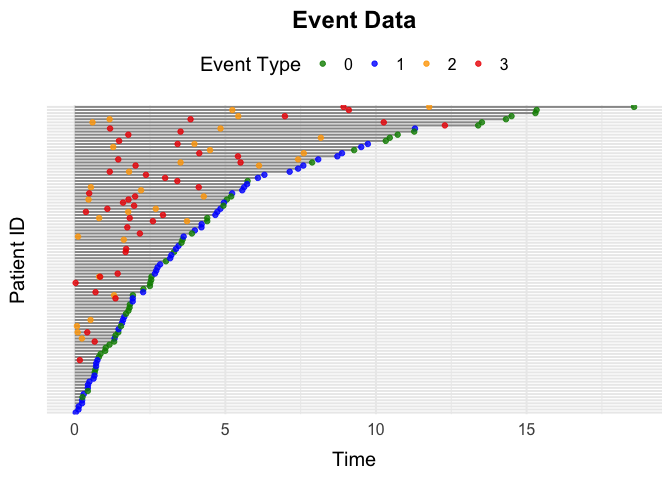
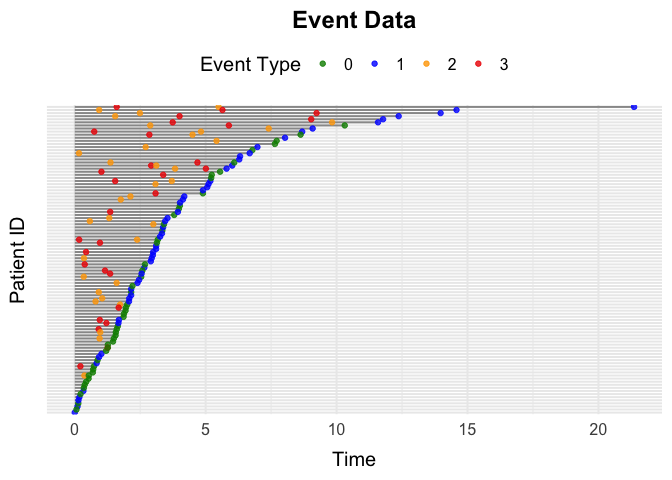
Working on incorporating more events

diff --git a/README.md b/README.md
@@ -27,31 +27,14 @@ We load the package
 library(simevent)
 ```
 
-The underlying function is called `simEventData`. One can specify
-various arguments, as for example the `N` and `beta` argument. The
-`N`argument lets the user specify number of individuals in the
-simulation. The `beta` argument lets the user specify the effects of
-processes and covariates on the intensities of the processes. We define
-the various arguments
+The underlying function is called `simEventData`. The `N` argument lets
+the user specify number of individuals in the simulation. We can
+simulate observational health care data for 100 individuals with the
+function call
 
 ``` r
-# Number of individuals
-N <- 100
-# Effect on event 0 
-beta0 <- c(0, 0, 0, 0)
-# Effect on event 1
-beta1 <- c(1, -1, 1, -1)
-# Effect on event 2 (A)
-beta2 <- c(0, -1, 0, 0.5)
-# Effect on event 3 (L)
-beta3 <- c(0, 0, 1, 0)
-beta <- cbind(beta0, beta1, beta2, beta3)
-```
-
-And then call the function
-
-``` r
-data <- simEventData(N = N, beta = beta)
+set.seed(2112)
+data <- simEventData(N = 100)
 ```
 
 The simulated data looks like
@@ -61,15 +44,18 @@ head(data)
 #> Key: <ID>
 #>       ID      Time Delta       L0     L    A0     A
 #>    <int>     <num> <num>    <num> <num> <int> <num>
-#> 1:     1 1.6487768     2 63.22484     0     1     0
-#> 2:     1 9.2003661     1 63.22484     0     1     1
-#> 3:     2 6.8472139     1 37.46308     0     1     0
-#> 4:     3 0.3997357     1 62.58468     0     0     0
-#> 5:     4 1.1660279     2 47.87919     0     1     0
-#> 6:     4 2.5904808     1 47.87919     0     1     1
+#> 1:     1 2.9037787     1 62.89378     0     0     0
+#> 2:     2 0.7063947     0 49.09138     0     1     0
+#> 3:     3 7.6447085     0 45.16921     0     1     0
+#> 4:     4 2.6600085     1 40.66332     0     1     0
+#> 5:     5 0.9501756     2 40.62088     0     0     0
+#> 6:     5 1.4929627     0 40.62088     0     0     1
 ```
 
-One can visualize the data by
+From data we can for example see that Individual $1$ has a baseline
+covariate $L_0$ of $62.89$, does not get treatment ($A_0 = 0$) and
+experienced the terminal event $1$ at Time $2.9$. One can visualize the
+data with use of the function `plotEventData`
 
 ``` r
 plotEventData(data)
@@ -77,9 +63,91 @@ plotEventData(data)
 
 <img src="man/figures/README-unnamed-chunk-4-1.png" width="100%" />
 
-### Classical Estimation
+The plot shows the event history of the $N = 100$ individuals, the
+different colors of the dots illustrate the different events. The
+$x$-axis is the timeline.
 
-We simulate for $N = 10^4$ individuals. Additional covariates
+### Arguments of simEventData
+
+`simEventData` is quite flexible, and does therefore take many
+arguments. You can read about the different arguments on the help page
+
+``` r
+?simEventData
+```
+
+To include additional baseline covariates, the user can specify random
+generator functions to generate the covariates. We will in the following
+include to additional baseline covariates, one with a bernoulli
+distribution with succes parameter 0.2, and one with a normal
+distribution. The functions should take as input the number of draws to
+make.
+
+``` r
+func1 <- function(N) rbinom(N, 1, 0.2)
+func2 <- function(N) rnorm(N)
+add_cov <- list(func1, func2)
+```
+
+The `beta` argument lets the user specify the effects of processes and
+covariates on the intensities of the processes. We define a new beta
+matrix, it should have dimensions 6x4 since we have two additional
+baseline covariates.
+
+``` r
+# Effect on event 0 
+beta0 <- c(0, 0, 0, 0, 0, 0)
+# Effect on event 1
+beta1 <- c(1, -1, 1, -1, -1, -1)
+# Effect on event 2 (A)
+beta2 <- c(0, -1, 0, 0.5, 0.5, 0)
+# Effect on event 3 (L)
+beta3 <- c(0, 0, 1, 0, 0, 0)
+beta <- cbind(beta0, beta1, beta2, beta3)
+```
+
+We can specify a user defined `at_risk` function by
+
+``` r
+at_risk <- function(i, L, A) {
+  return(c(
+    1,1,                      # You are always at risk for death and censoring
+    as.numeric(A[i] == 0),    # You can experience A once
+    as.numeric(L[i] < 2)))    # You can experience L twice
+  }
+```
+
+This `at_risk` function for example, allows for recurrent events,
+letting the individual experience the $L$ event twice. We simulate data
+from this setting, and use the default values of $\eta$, $\nu$ and have
+no maximal censoring time.
+
+``` r
+data <- simEventData(N = 100, add_cov = add_cov, beta = beta, at_risk = at_risk)
+```
+
+The additional covariates are called $L_1$ and $L_2$, and data now looks
+like
+
+``` r
+head(data)
+#> Key: <ID>
+#>       ID      Time Delta       L0     L    A0     A    L1         L2
+#>    <int>     <num> <num>    <num> <num> <int> <num> <num>      <num>
+#> 1:     1 1.5590413     1 49.79150     0     1     0     0 -0.1052511
+#> 2:     2 3.5675446     1 35.22123     0     1     0     0 -1.2947378
+#> 3:     3 2.0755969     0 61.12498     0     1     0     0  1.3408939
+#> 4:     4 0.4407033     1 54.78982     0     0     0     0 -1.3608400
+#> 5:     5 0.8704168     0 46.70442     0     1     0     1  0.2032149
+#> 6:     6 0.0871322     0 59.68767     0     1     0     1  0.1238069
+```
+
+### Cox Regression
+
+It could be of interest to estimate the effects of covariates on the
+intensities of the different counting processes. A tool for this is the
+Cox proportional hazards model. We start by simulating data for
+$N = 10^4$ individuals.
 
 ``` r
 data <- simEventData(N = 10^4, beta = beta)
@@ -87,15 +155,10 @@ data <- simEventData(N = 10^4, beta = beta)
 
 In order to fit a Cox proportional hazards model with the `survival`
 package, the data needs to be transformed into the so called format,
-this can be done by the function \`IntFormatData.\`\`\` Furthermore two
-at risk indicators need to be created, one that indicates when the
-individual is at risk for event $A$ and one that indicates that the
-individual is at risk for event $L$.
+this can be done by the function `IntFormatData`.
 
 ``` r
 data_int <- IntFormatData(data)
-data_int[, at_risk_2 := as.numeric(A == 0)]
-data_int[, at_risk_3 := as.numeric(L == 0)]
 ```
 
 Data in the format looks like
@@ -105,24 +168,22 @@ head(data_int)
 #> Key: <ID>
 #>       ID      Time Delta       L0     L    A0     A     k   tstart     tstop
 #>    <int>     <num> <num>    <num> <num> <int> <num> <int>    <num>     <num>
-#> 1:     1 2.0373085     3 50.92628     0     0     0     1 0.000000 2.0373085
-#> 2:     1 3.6342119     1 50.92628     1     0     0     2 2.037309 3.6342119
-#> 3:     2 1.6753524     0 42.96036     0     1     0     1 0.000000 1.6753524
-#> 4:     3 1.1853940     1 30.72762     0     1     0     1 0.000000 1.1853940
-#> 5:     4 3.1342088     0 57.44008     0     1     0     1 0.000000 3.1342088
-#> 6:     5 0.7731562     1 46.84456     0     1     0     1 0.000000 0.7731562
-#>    at_risk_2 at_risk_3
-#>        <num>     <num>
-#> 1:         1         1
-#> 2:         1         0
-#> 3:         1         1
-#> 4:         1         1
-#> 5:         1         1
-#> 6:         1         1
+#> 1:     1 0.2803617     1 56.28101     0     0     0     1 0.000000 0.2803617
+#> 2:     2 2.1744307     0 42.91979     0     1     0     1 0.000000 2.1744307
+#> 3:     3 1.5787315     3 65.45872     0     0     0     1 0.000000 1.5787315
+#> 4:     3 1.8758636     1 65.45872     1     0     0     2 1.578732 1.8758636
+#> 5:     4 1.0141196     1 32.28017     0     1     0     1 0.000000 1.0141196
+#> 6:     5 2.5035652     1 54.97065     0     1     0     1 0.000000 2.5035652
 ```
 
-Cox proportional hazards models for the death process and operation
-process can be fitted by the following code
+The data contains the same information as the original data, only now
+three additional columns have been added. The column *k*, indicates the
+number of the event, the column *tstart* indicates the start of a time
+interval, and the column *tstop* indicates the end of a time interval.
+In each time interval the covariates (and processes) influencing the
+intensities of the processes remain constant. Cox proportional hazards
+models for the death process and operation process can be fitted by the
+following code
 
 ``` r
 library(survival)
@@ -131,10 +192,12 @@ survfit_death <- coxph(Surv(tstart, tstop, Delta == 1) ~ I(L0/50) + A0 + L + A,
                        data = data_int)
 # Operation process
 survfit_oper <- coxph(Surv(tstart, tstop, Delta == 2) ~ I(L0/50) + A0 + L, 
-                      data = data_int[at_risk_2 == 1])
+                      data = data_int[A == 0])
 ```
 
-The regression results can be seen by the summary call
+In order to conduct correct inference, only data where the individual is
+at risk for the event in question is included in the regression. The
+regression results can be seen by the summary call
 
 ``` r
 survfit_death |> summary()
@@ -142,39 +205,39 @@ survfit_death |> summary()
 #> coxph(formula = Surv(tstart, tstop, Delta == 1) ~ I(L0/50) + 
 #>     A0 + L + A, data = data_int)
 #> 
-#>   n= 14461, number of events= 6352 
+#>   n= 14481, number of events= 6367 
 #> 
 #>              coef exp(coef) se(coef)      z Pr(>|z|)    
-#> I(L0/50)  0.98586   2.68011  0.05546  17.78   <2e-16 ***
-#> A0       -1.00430   0.36630  0.02715 -36.99   <2e-16 ***
-#> L         0.97273   2.64517  0.02946  33.02   <2e-16 ***
-#> A        -1.02780   0.35779  0.04316 -23.81   <2e-16 ***
+#> I(L0/50)  0.90118   2.46250  0.05499  16.39   <2e-16 ***
+#> A0       -0.97200   0.37832  0.02708 -35.89   <2e-16 ***
+#> L         0.96847   2.63392  0.02921  33.16   <2e-16 ***
+#> A        -0.96298   0.38175  0.04133 -23.30   <2e-16 ***
 #> ---
 #> Signif. codes:  0 '***' 0.001 '**' 0.01 '*' 0.05 '.' 0.1 ' ' 1
 #> 
 #>          exp(coef) exp(-coef) lower .95 upper .95
-#> I(L0/50)    2.6801     0.3731    2.4041    2.9878
-#> A0          0.3663     2.7300    0.3473    0.3863
-#> L           2.6452     0.3780    2.4968    2.8024
-#> A           0.3578     2.7949    0.3288    0.3894
+#> I(L0/50)    2.4625     0.4061    2.2109    2.7428
+#> A0          0.3783     2.6432    0.3588    0.3989
+#> L           2.6339     0.3797    2.4874    2.7891
+#> A           0.3818     2.6195    0.3521    0.4140
 #> 
-#> Concordance= 0.676  (se = 0.004 )
-#> Likelihood ratio test= 2719  on 4 df,   p=<2e-16
-#> Wald test            = 2698  on 4 df,   p=<2e-16
-#> Score (logrank) test = 2799  on 4 df,   p=<2e-16
+#> Concordance= 0.669  (se = 0.004 )
+#> Likelihood ratio test= 2593  on 4 df,   p=<2e-16
+#> Wald test            = 2589  on 4 df,   p=<2e-16
+#> Score (logrank) test = 2680  on 4 df,   p=<2e-16
 ```
 
 ## Example 2: Survival Data
 
-You can simulate data from a survival setting with the function
-`simSurvData`.
+A special case of the general setting is the survival setting, one can
+simulate data from a survival setting with the function `simSurvData`.
 
 ``` r
 data <- simSurvData(100)
 plotEventData(data, title = "Survival Data")
 ```
 
-<img src="man/figures/README-unnamed-chunk-10-1.png" width="100%" />
+<img src="man/figures/README-unnamed-chunk-15-1.png" width="100%" />
 
 One can again specify the effects of $A_0$ and $L_0$ on the risk of
 death and censoring by the `beta` argument.
@@ -203,7 +266,7 @@ data <- simSurvData(100, beta = beta, eta = eta, nu = nu)
 plotEventData(data, title = "Survival Data")
 ```
 
-<img src="man/figures/README-unnamed-chunk-13-1.png" width="100%" />
+<img src="man/figures/README-unnamed-chunk-18-1.png" width="100%" />
 
 ## Example 3: Competing Risk Data
 
@@ -216,7 +279,7 @@ data <- simCRdata(100)
 plotEventData(data, title = "Competing Risk Data")
 ```
 
-<img src="man/figures/README-unnamed-chunk-14-1.png" width="100%" />
+<img src="man/figures/README-unnamed-chunk-19-1.png" width="100%" />
 
 ## Example 4: Type 2 Diabetes
 
@@ -233,7 +296,6 @@ Below is a function call to `simT2D`
 
 ``` r
 data <- simT2D(N = 100,
-               sex = FALSE, 
                cens = 1,
                eta = c(0.1,0.3,0.1,0.1), 
                nu = c(1.1,1.3,1.1,1.1),
@@ -245,7 +307,7 @@ data <- simT2D(N = 100,
 plotEventData(data, title = "T2D data")
 ```
 
-<img src="man/figures/README-unnamed-chunk-16-1.png" width="100%" />
+<img src="man/figures/README-unnamed-chunk-21-1.png" width="100%" />
 
 ## Example 5: Unobserved Covariate Setting
 
@@ -289,4 +351,4 @@ operation/treatment event (op = 1), where there is a censoring process
 plotEventData(data, title = "Confounding setting")
 ```
 
-<img src="man/figures/README-unnamed-chunk-20-1.png" width="100%" />
+<img src="man/figures/README-unnamed-chunk-25-1.png" width="100%" />
